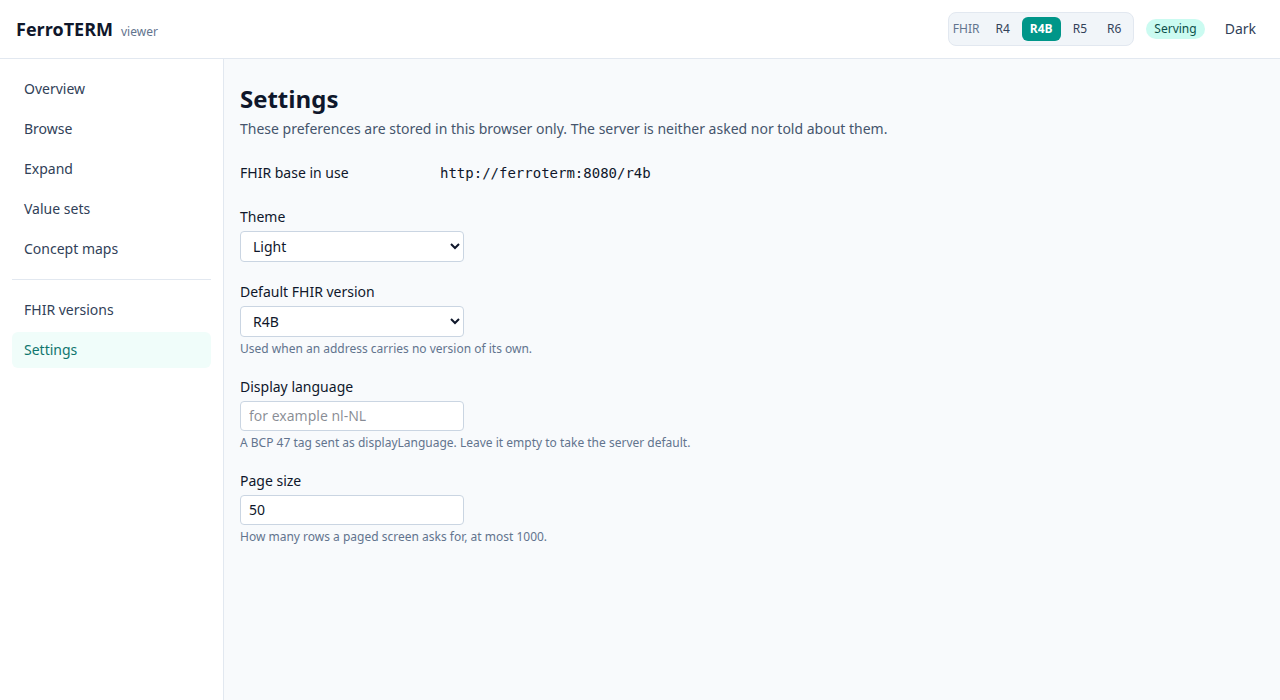
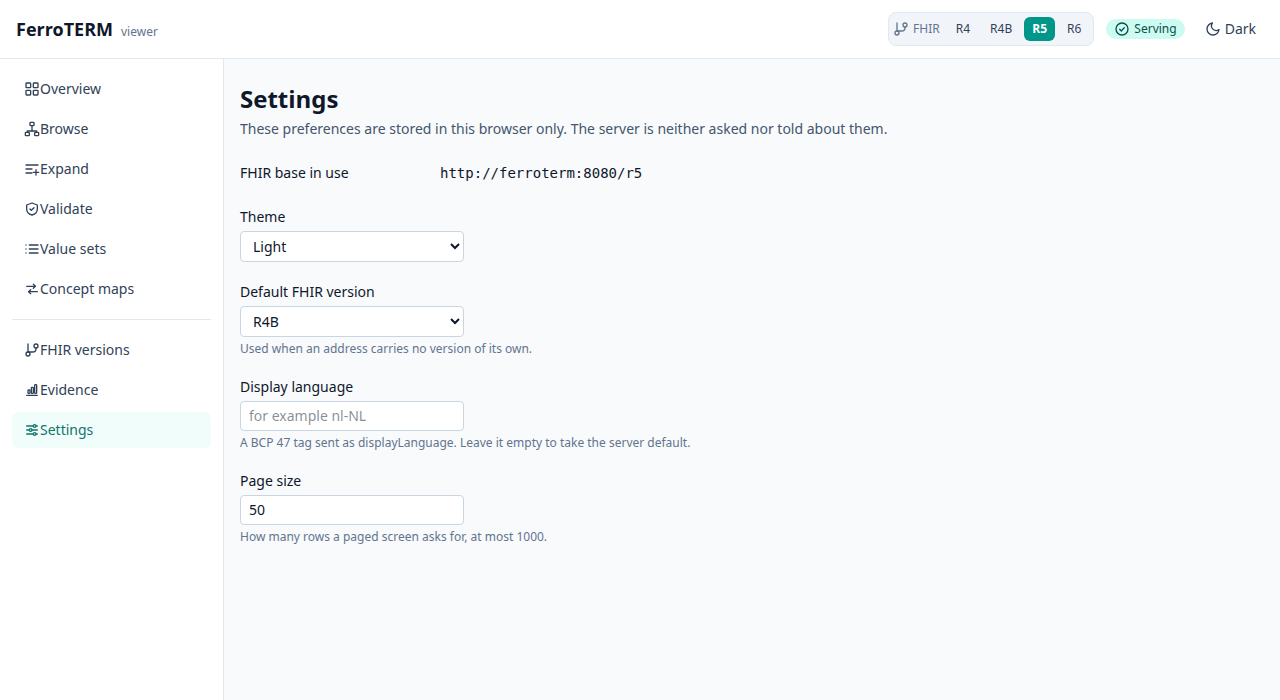
docs(website): the book shows every viewer screen, captured in one run
The capture pass was written when the viewer had seven screens. The version
comparison, the validate and subsume runners, and the evidence screen landed
after it, so the book showed most of the viewer and none of the evidence it
carries.

Two defects in the pass blocked a clean re-capture. It ran on r4b, and the
concept browser draws a tree only for a version declaring the child-of filter
operator, which filter-operator defines from R5 onward, so the browser had
nothing to walk. It also picked the walkable code system by matching the card
text, and WebDriver's get element text returns only rendered text, so the
operator list inside a closed <details> matched nothing.

The declaration table's row labels are sentences, and break-all chopped one
mid-word in the shot; they wrap on word boundaries now. The operation labels
below them are single tokens and still break anywhere they must.

Every committed image comes from one run of the pass against a server serving
the synthetic fixture.

Closes #498

diff --git a/e2e/tests/it/docs_shots.rs b/e2e/tests/it/docs_shots.rs
@@ -37,7 +37,12 @@ const BOOK_IMAGES: &str = "../website/book/src/operate/img/viewer";
 
 /// The FHIR version every capture is taken on, so the shots agree with each
 /// other and with the page that embeds them.
-const CAPTURED_VERSION: &str = "r4b";
+///
+/// R5 rather than the default, because the concept browser draws a tree only
+/// for a version declaring `child-of`, and `filter-operator` defines that from
+/// R5 onward (<https://hl7.org/fhir/R4B/codesystem-filter-operator.html>). A
+/// capture on an R4-family root would show the browser with nothing to walk.
+const CAPTURED_VERSION: &str = "r5";
 
 /// A code the mounted fixture concept map maps.
 ///
@@ -54,8 +59,11 @@ const SYSTEM_LINK: &str = "section[aria-labelledby='systems-heading'] article h3
 ///
 /// The card is chosen by what the capability statement declares rather than by
 /// which system it names, the way the journeys choose it, so the pass names no
-/// code system.
-const WALKABLE_CARD: &str = "//article[contains(., 'child-of')]//h3//a";
+/// code system. The operator list sits inside a `<details>`, and a closed
+/// disclosure renders no text, so the match is on the `<li>` in the DOM rather
+/// than on the card's text
+/// (<https://www.w3.org/TR/webdriver2/#dfn-get-element-text>).
+const WALKABLE_CARD: &str = "//article[.//li[contains(., 'child-of')]]//h3//a";
 
 /// The code system screen's capability pane.
 const CAPABILITY_PANE: &str = "section[aria-labelledby='system-capability-heading']";
@@ -113,6 +121,43 @@ const TRANSLATE_ANSWER: &str = "section[aria-labelledby='translate-heading']";
 
 /// The sentence a translated code is answered with.
 const TRANSLATED: &str = "The server translated the code.";
+
+/// The validate runner's code system control.
+const VALIDATE_SYSTEM: &str = "#validate-system";
+
+/// The validate runner's code control.
+const VALIDATE_CODE: &str = "#validate-code";
+
+/// The validate runner's submit control.
+const VALIDATE_SUBMIT: &str = "section[aria-labelledby='validate-heading'] button[type='submit']";
+
+/// The validate runner's answer.
+const VALIDATE_ANSWER: &str = "section[aria-labelledby='validate-heading']";
+
+/// The opening words of the verdict a validated code is answered with.
+const VALIDATED: &str = "result:";
+
+/// The subsumption runner, which the same screen carries below the validation.
+const SUBSUMES_SECTION: &str = "section[aria-labelledby='subsumes-heading']";
+
+/// The version comparison, once the four reads have filled it.
+const COMPARISON: &str = "section[aria-labelledby='comparison-heading']";
+
+/// One of the comparison's two tables.
+const COMPARISON_TABLE: &str = "section[aria-labelledby='comparison-heading'] table";
+
+/// How many tables the comparison draws, so a shot is never taken while one
+/// root is still answering.
+const COMPARISON_TABLES: usize = 2;
+
+/// The evidence screen's conformance pane.
+const CONFORMANCE_PANE: &str = "section[aria-labelledby='conformance-heading']";
+
+/// The evidence screen's latency pane.
+const LATENCY_PANE: &str = "section[aria-labelledby='latency-heading']";
+
+/// The evidence screen's benchmark-run pane.
+const RUN_PANE: &str = "section[aria-labelledby='run-heading']";
 
 /// The settings screen's theme control.
 const THEME_CONTROL: &str = "#viewer-theme";
@@ -358,6 +403,81 @@ async fn concept_maps(
     Ok(())
 }
 
+/// The validate and subsume runners, on a code the fixture holds.
+///
+/// The code system and the code are the ones the earlier screens already
+/// named, so the pass names no code system of its own. The subsumption runner
+/// below is left unrun: it is a second form on the same screen, and a shot of
+/// one answer and one empty form shows what the screen offers without claiming
+/// a result nobody asked for.
+async fn validate_runner(
+    journey: &Journey,
+    dir: &Path,
+    base: &str,
+    system: &str,
+) -> WebDriverResult<()> {
+    journey.reopen(&address(base, "validate")).await;
+    journey
+        .element(By::Css(VALIDATE_SYSTEM), "the runner's code system control")
+        .await
+        .send_keys(system)
+        .await?;
+    journey
+        .element(By::Css(VALIDATE_CODE), "the runner's code control")
+        .await
+        .send_keys(MAPPED_CODE)
+        .await?;
+    journey
+        .element(By::Css(VALIDATE_SUBMIT), "the runner's submit control")
+        .await
+        .click()
+        .await?;
+    journey
+        .text_becoming(
+            By::Css(VALIDATE_ANSWER),
+            StringMatch::new(VALIDATED.to_owned()).partial(),
+            "the runner to state a verdict on the code it was given",
+        )
+        .await;
+    journey
+        .element(By::Css(SUBSUMES_SECTION), "the subsumption runner below it")
+        .await;
+    shot(journey, &dir.join("validate.png")).await?;
+    Ok(())
+}
+
+/// The four served roots side by side, as their capability statements differ.
+async fn versions(journey: &Journey, dir: &Path, base: &str) -> WebDriverResult<()> {
+    journey.reopen(&address(base, "versions")).await;
+    journey
+        .element(By::Css(COMPARISON), "the comparison the four reads fill")
+        .await;
+    journey
+        .count_becoming(
+            By::Css(COMPARISON_TABLE),
+            COMPARISON_TABLES,
+            "both comparison tables to draw before the shot is taken",
+        )
+        .await;
+    shot(journey, &dir.join("versions.png")).await
+}
+
+/// The evidence this build carries: the suite, the latency bars, and the
+/// newest committed benchmark run.
+async fn evidence(journey: &Journey, dir: &Path, base: &str) -> WebDriverResult<()> {
+    journey.reopen(&address(base, "evidence")).await;
+    journey
+        .element(By::Css(CONFORMANCE_PANE), "the conformance pane")
+        .await;
+    journey
+        .element(By::Css(LATENCY_PANE), "the latency pane")
+        .await;
+    journey
+        .element(By::Css(RUN_PANE), "the benchmark run pane")
+        .await;
+    shot(journey, &dir.join("evidence.png")).await
+}
+
 /// Settings: what this browser remembers, and nothing the server holds.
 async fn settings(journey: &Journey, dir: &Path, base: &str) -> WebDriverResult<()> {
     journey.reopen(&address(base, "settings")).await;
@@ -397,7 +517,10 @@ async fn the_documentation_screenshots_are_captured() {
             concept_browser(&journey, &dir).await?;
             let canonical = value_sets(&journey, &dir, &base).await?;
             expansion_runner(&journey, &dir, &base, &canonical).await?;
+            validate_runner(&journey, &dir, &base, &system).await?;
             concept_maps(&journey, &dir, &base, &system).await?;
+            versions(&journey, &dir, &base).await?;
+            evidence(&journey, &dir, &base).await?;
             settings(&journey, &dir, &base).await?;
             journey.no_console_errors().await;
             Ok::<(), WebDriverError>(())

diff --git a/app/ferroterm-viewer/src/pages/versions.rs b/app/ferroterm-viewer/src/pages/versions.rs
@@ -246,7 +246,11 @@ fn row_view(row: &Row) -> AnyView {
         .collect();
     view! {
         <tr class="border-b border-slate-200 align-top dark:border-slate-800">
-            <th scope="row" class="py-2 pr-3 font-mono text-xs font-normal break-all">
+            // `wrap-break-word` rather than `break-all`: an operation label
+            // is one long token with nowhere to break, but a declaration label
+            // is a sentence, and `break-all` chops it mid-word
+            // (<https://developer.mozilla.org/en-US/docs/Web/CSS/overflow-wrap>).
+            <th scope="row" class="py-2 pr-3 font-mono text-xs font-normal wrap-break-word">
                 {row.label.clone()}
             </th>
             {cells}
@@ -289,7 +293,7 @@ fn root_notes_view(label: &'static str, notes: &[(String, String)]) -> AnyView {
         .iter()
         .map(|(operation, note)| {
             view! {
-                <dt class="mt-2 font-mono text-xs break-all">{operation.clone()}</dt>
+                <dt class="mt-2 font-mono text-xs wrap-break-word">{operation.clone()}</dt>
                 <dd class="text-sm text-slate-700 dark:text-slate-200">{note.clone()}</dd>
             }
             .into_any()

diff --git a/e2e/tests/it/harness.rs b/e2e/tests/it/harness.rs
@@ -200,6 +200,27 @@ impl Journey {
             .unwrap_or_default()
     }
 
+    /// Waits until `selector` matches `wanted` elements, and says so if it
+    /// never does.
+    ///
+    /// A screen that fills from several reads draws its parts one at a time,
+    /// so the first match is on a page that is still filling. Waiting on the
+    /// count is what makes the whole of it observable.
+    pub async fn count_becoming(&self, selector: By, wanted: usize, what: &str) {
+        let deadline = Instant::now() + WAIT;
+        loop {
+            let found = self.count(selector.clone()).await;
+            if found == wanted {
+                return;
+            }
+            if Instant::now() >= deadline {
+                let reason = format!("{found} elements match, not {wanted}");
+                panic!("{}", self.failure(what, &reason).await);
+            }
+            tokio::time::sleep(POLL).await;
+        }
+    }
+
     /// The address the browser is on.
     pub async fn address(&self) -> String {
         self.driver

diff --git a/website/book/src/operate/viewer.md b/website/book/src/operate/viewer.md
@@ -106,6 +106,20 @@ walk the rest.
 
 ![The expansion runner, showing an expansion and the page controls](img/viewer/expand.png)
 
+### Validate and subsume
+
+Two runners on one screen, because both answer a question about codes rather
+than about a set. `$validate-code` takes a code and either the code system or
+the value set to judge it against; the root's capability statement decides
+which levels the form offers, and where a root declares the instance level a
+stored resource's id stands in for the canonical. The answer states the
+verdict, the message the server gave, the display it holds, and whether the
+concept is inactive. `$subsumes` takes two codes in one system and states the
+relation the server found between them. Running either puts its parameters in
+the address, so a case is shareable by link.
+
+![The validation runner, with a verdict on one code and the subsumption runner below it](img/viewer/validate.png)
+
 ### Value sets
 
 The `ValueSet` resources this root publishes, searched by `url` and `version`.
@@ -123,6 +137,17 @@ the server picks the maps it holds for that code. The answer lists each match
 with the equivalence the server stated and the map it came from.
 
 ![The concept map screen, with a translated code and the match it returned](img/viewer/concept-maps.png)
+
+### FHIR versions
+
+The four served roots side by side, each read from its own
+`GET /{version}/metadata`. One table compares what each root declares of the
+terminology operations, the other what it declares of the resources. The screen
+exists because the versions genuinely differ: R4 and R4B declare `$lookup` at
+the type level and R5 added the instance level, and the viewer offers on each
+screen only what the root you are on declares.
+
+![The version comparison, with the four served roots side by side](img/viewer/versions.png)
 
 ### Evidence
 
@@ -148,6 +173,8 @@ Three sections, each naming the file every one of its numbers came from:
 No number here is typed into the viewer's source. Each one is read from its
 committed file at build time, so you can open that file in the repository and
 check it.
+
+![The evidence screen: the suite table and the latency bars, with the benchmark records continuing below the image](img/viewer/evidence.png)
 
 ### Settings
 
